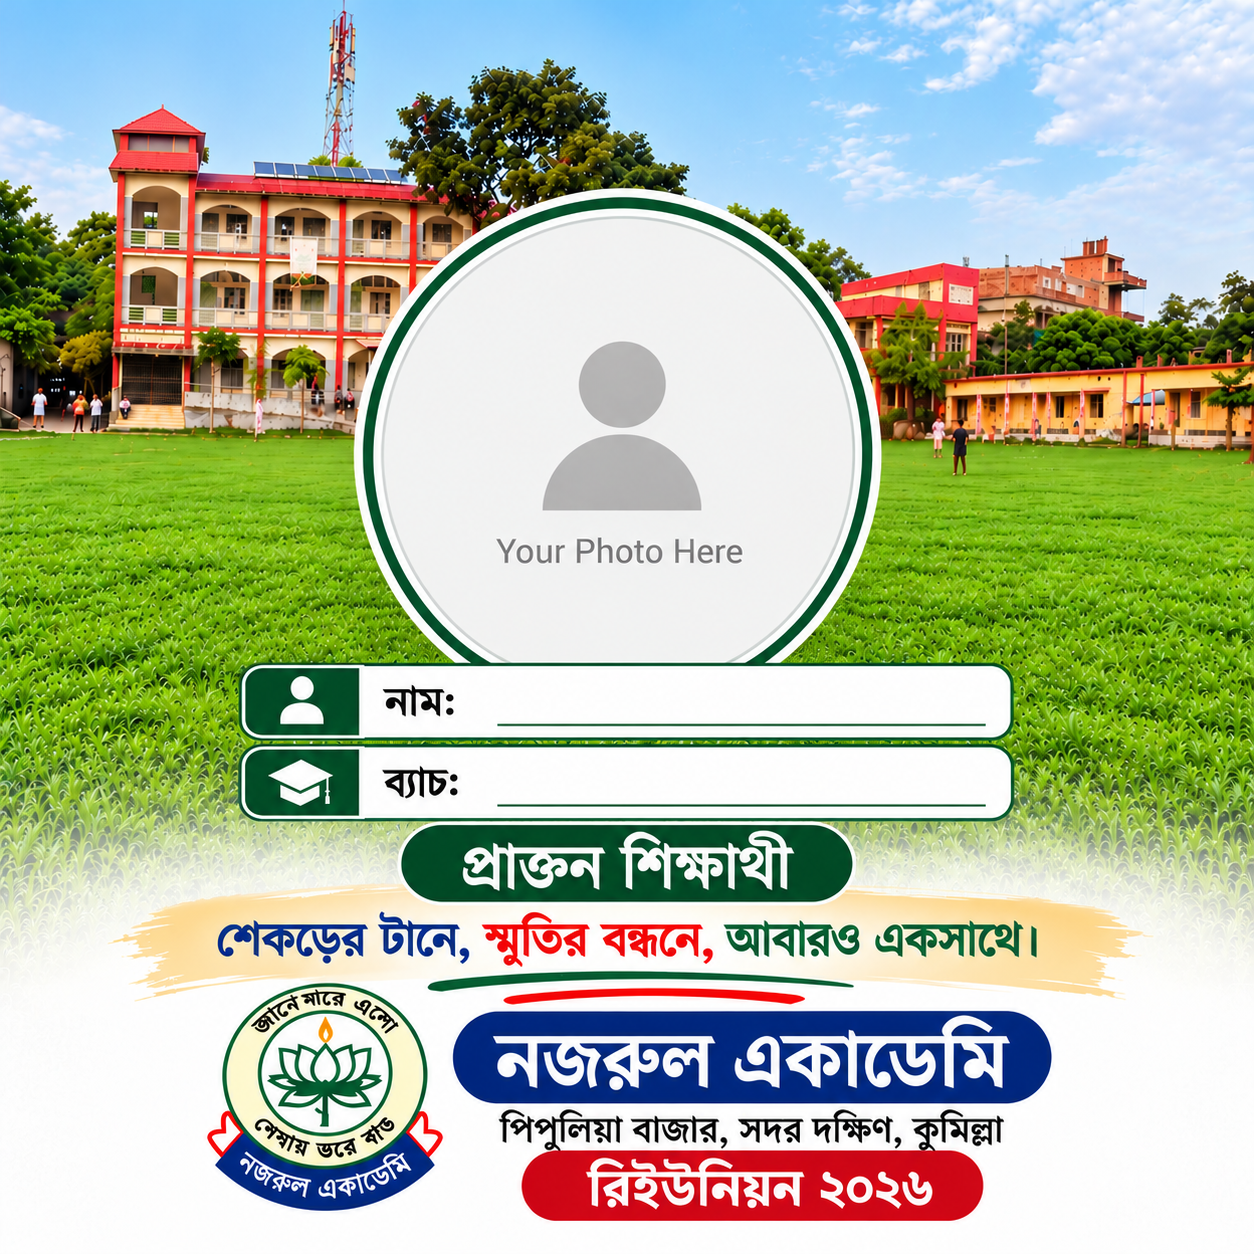
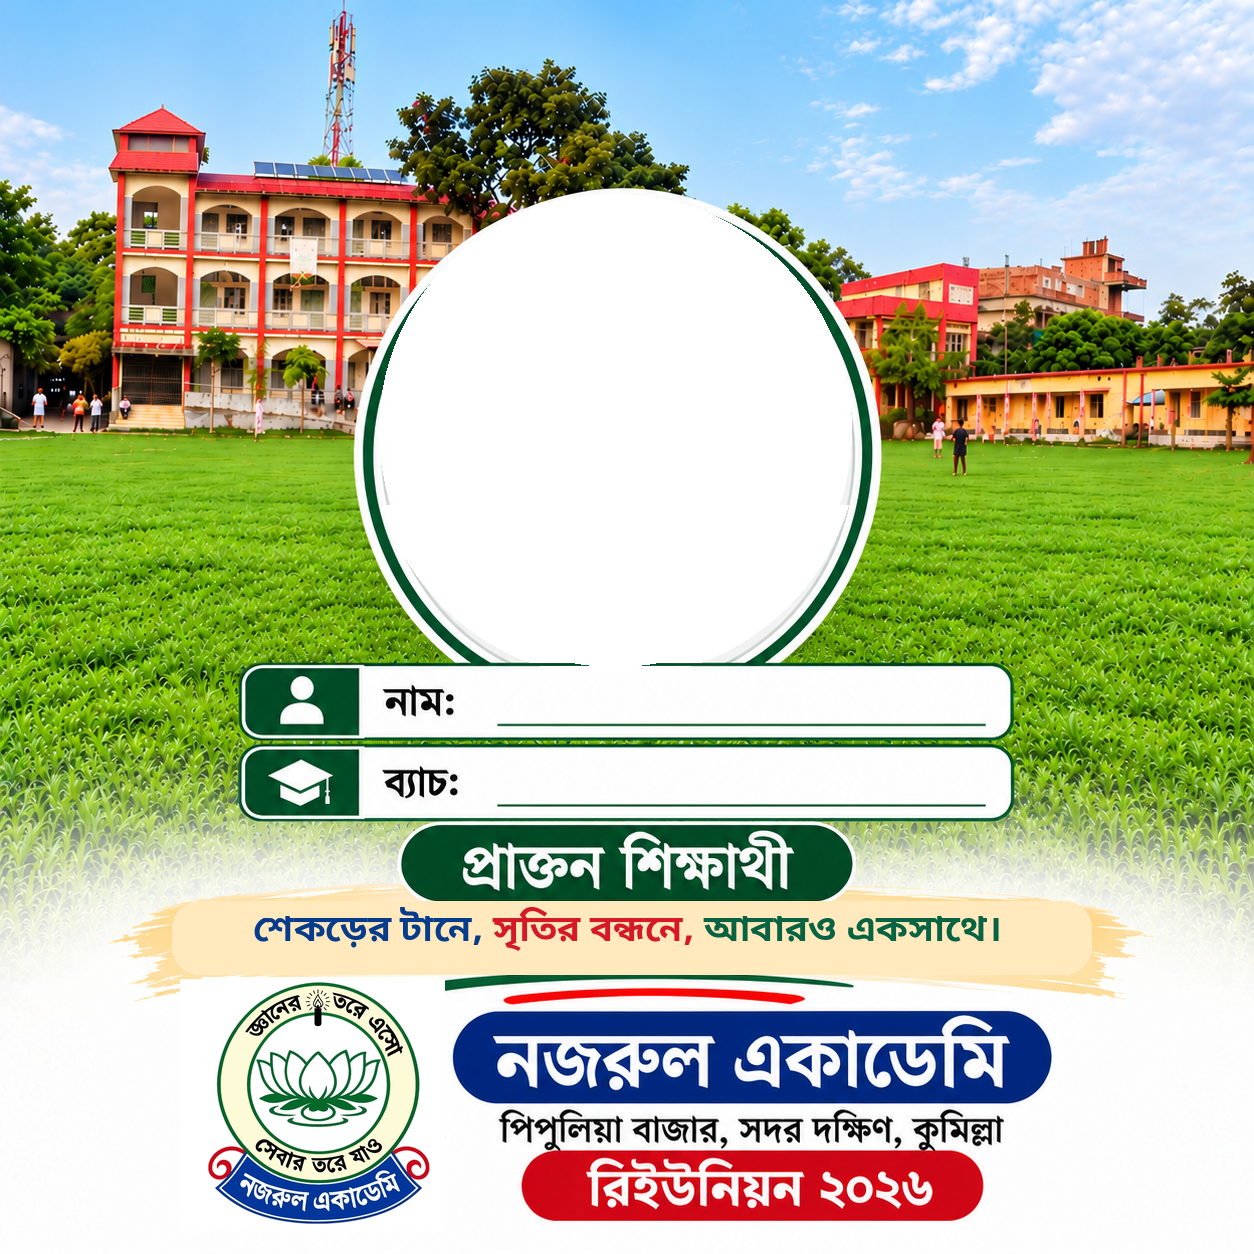
Add files via upload

diff --git a/index.html b/index.html
@@ -1,5 +1,18 @@
-<!doctype html><html lang="bn"><head><meta charset="utf-8"><meta name="viewport" content="width=device-width,initial-scale=1"><title>নজরুল একাডেমি রিইউনিয়ন ২০২৬</title><style>body{font-family:system-ui,sans-serif;background:#f1f6f4;margin:0;color:#153c2b}main{max-width:580px;margin:auto;padding:18px}h2{text-align:center;font-size:23px}.panel{background:white;border-radius:14px;padding:16px;box-shadow:0 4px 18px #0001}label{display:block;margin:12px 0 5px;font-weight:700}input{box-sizing:border-box;width:100%;padding:12px;border:1px solid #bbcfc3;border-radius:8px;font-size:17px}button{width:100%;background:#086239;color:white;border:0;border-radius:9px;padding:14px;margin-top:16px;font-size:18px;font-weight:700}canvas{display:block;width:100%;height:auto;margin:18px auto;border-radius:9px}.hint{font-size:13px;color:#52645b;text-align:center}</style></head><body><main><h2>নজরুল একাডেমি রিইউনিয়ন ২০২৬</h2><div class="panel"><label>নিজের ছবি নির্বাচন করুন</label><input id="photo" type="file" accept="image/*"><label>নাম</label><input id="name" placeholder="আপনার নাম লিখুন" maxlength="34"><label>ব্যাচ</label><input id="batch" placeholder="যেমন: ২০২০" maxlength="12"><canvas id="card" width="1254" height="1254"></canvas><button id="save">ফটো কার্ড ডাউনলোড করুন</button><p class="hint">আপনার ছবি শুধু আপনার ফোনেই প্রক্রিয়াকরণ হয়।</p></div></main><script>
-const c=document.getElementById('card'),ctx=c.getContext('2d'),photoInput=document.getElementById('photo'),nameInput=document.getElementById('name'),batchInput=document.getElementById('batch');let portrait=null;const bg=new Image();bg.src='frame.png';bg.onload=render;const beng=n=>String(n).replace(/[0-9]/g,x=>'০১২৩৪৫৬৭৮৯'[+x]);
-function render(){if(!bg.complete||!bg.naturalWidth)return;ctx.clearRect(0,0,1254,1254);ctx.drawImage(bg,0,0,1254,1254);if(portrait){ctx.save();ctx.beginPath();ctx.arc(615,435,222,0,Math.PI*2);ctx.clip();const scale=Math.max(444/portrait.width,444/portrait.height);const w=portrait.width*scale,h=portrait.height*scale;ctx.drawImage(portrait,615-w/2,435-h/2,w,h);ctx.restore();}function field(value,y){if(!value)return;ctx.fillStyle='#fff';ctx.fillRect(493,y-48,488,56);ctx.fillStyle='#111';let size=42;ctx.font='bold '+size+'px sans-serif';while(ctx.measureText(value).width>465&&size>23){size-=2;ctx.font='bold '+size+'px sans-serif';}ctx.fillText(value,504,y);}field(nameInput.value.trim(),722);field(beng(batchInput.value.trim()),804);}
-photoInput.addEventListener('change',()=>{const f=photoInput.files[0];if(!f)return;const url=URL.createObjectURL(f);const img=new Image();img.onload=()=>{portrait=img;URL.revokeObjectURL(url);render()};img.src=url});nameInput.addEventListener('input',render);batchInput.addEventListener('input',render);document.getElementById('save').addEventListener('click',()=>{render();const a=document.createElement('a');a.download='Nazrul-Academy-Reunion-2026.png';a.href=c.toDataURL('image/png');a.click()});
+<!doctype html>
+<html lang="bn">
+<head>
+<meta charset="UTF-8"><meta name="viewport" content="width=device-width, initial-scale=1, viewport-fit=cover">
+<meta name="theme-color" content="#071c4b"><meta name="description" content="নজরুল একাডেমি প্রাক্তন ছাত্র-ছাত্রী পুনর্মিলনী ২০২৬ ফটো ফ্রেম জেনারেটর">
+<title>নজরুল একাডেমি | পুনর্মিলনী ২০২৬ ফটো ফ্রেম</title>
+<link rel="preconnect" href="https://fonts.googleapis.com"><link rel="preconnect" href="https://fonts.gstatic.com" crossorigin>
+<link href="https://fonts.googleapis.com/css2?family=Hind+Siliguri:wght@400;500;600;700&display=swap" rel="stylesheet">
+<style>
+:root{--navy:#071c4b;--blue:#0d367d;--gold:#f2c965;--white:#fff;--muted:#60718d}*{box-sizing:border-box}body{margin:0;font-family:'Hind Siliguri',system-ui,sans-serif;background:radial-gradient(circle at 15% 0%,#234f9b,#071c4b 48%,#04112f);color:#fff;min-height:100vh}.wrap{max-width:1100px;margin:auto;padding:20px 16px 48px}header{text-align:center;margin:8px auto 25px}header .eyebrow{letter-spacing:.1em;color:var(--gold);font-size:13px;font-weight:700}h1{font-size:clamp(23px,4vw,38px);line-height:1.3;margin:9px 0 5px}header p{margin:0;color:#d8e3f9}main{display:grid;grid-template-columns:minmax(0,1.05fr) minmax(310px,.95fr);gap:24px;align-items:start}.panel{background:#fff;color:#12234a;border-radius:22px;padding:22px;box-shadow:0 18px 45px #0005}.panel h2{margin:0 0 14px;font-size:23px}.panel p{color:var(--muted);font-size:14px}.preview-panel{background:linear-gradient(160deg,#163d84,#07183f);border:1px solid #d9b96566;border-radius:22px;padding:18px;text-align:center;box-shadow:0 18px 45px #0004}.preview-panel h2{font-size:19px;margin:0 0 12px}.canvas-wrap{width:100%;max-width:500px;margin:auto;aspect-ratio:1;position:relative;touch-action:none;cursor:grab;border-radius:14px;overflow:hidden;background:repeating-conic-gradient(#e8ecf3 0% 25%,#cbd5e5 0% 50%) 50%/22px 22px}.canvas-wrap:active{cursor:grabbing}canvas{width:100%;height:100%;display:block}.hint{font-size:12px;color:#d6e3fa;margin:10px 0 0}.field{margin:15px 0}label{display:block;font-weight:700;margin-bottom:7px}input[type=text],select{width:100%;padding:12px 13px;font:inherit;border:1px solid #cbd5e1;border-radius:11px;background:#f8faff;color:#142957;outline:none}input:focus,select:focus{border-color:#1a5db2;box-shadow:0 0 0 3px #a5c7ff70}.upload{display:flex;align-items:center;justify-content:center;gap:10px;border:2px dashed #9cb5d7;background:#eff5ff;color:#0d367d;border-radius:13px;padding:19px 10px;cursor:pointer;font-weight:700;text-align:center}.upload input{position:absolute;width:1px;height:1px;opacity:0}.zoom-row{display:flex;align-items:center;gap:12px}.zoom-row input{flex:1;accent-color:#153e86}.zoom-row output{min-width:44px;text-align:right;font-weight:700}.actions{display:flex;gap:10px;flex-wrap:wrap;margin-top:18px}button{font:inherit;cursor:pointer;border:0;border-radius:12px;padding:12px 17px;font-weight:700}button.primary{background:linear-gradient(135deg,#fbe29b,#dca839);color:#10264f;flex:1}button.secondary{background:#e9f0fc;color:#143b7c}button:disabled{opacity:.5;cursor:not-allowed}.notice{margin-top:14px;background:#f3f7fd;border-radius:12px;padding:12px;font-size:13px;color:#4e6281}.status{min-height:22px;color:#1a6b3a;font-size:13px;font-weight:600}.privacy{font-size:13px;color:#c8d8f6;text-align:center;margin-top:22px}footer{text-align:center;color:#a9c0e7;font-size:12px;margin-top:20px}@media(max-width:780px){main{grid-template-columns:1fr}.preview-panel{order:1}.panel{order:2}.wrap{padding:14px 12px 35px}.panel{padding:18px}header{margin-bottom:16px}}
+</style>
+</head>
+<body><div class="wrap"><header><div class="eyebrow">NAZRUL ACADEMY • REUNION 2026</div><h1>নজরুল একাডেমি পুনর্মিলনী ২০২৬</h1><p>আপনার ছবি, আপনার ব্যাচ, আমাদের স্মৃতি</p></header>
+<main><section class="preview-panel" aria-label="ফটো ফ্রেম প্রিভিউ"><h2>আপনার ফটো ফ্রেম</h2><div class="canvas-wrap" id="gestureArea"><canvas id="preview" width="1254" height="1254" aria-label="ফটো ফ্রেমের প্রিভিউ"></canvas></div><div class="hint">ছবি টেনে সরান • দুই আঙুলে বা স্লাইডারে জুম করুন</div></section>
+<section class="panel"><h2>নিজের ফ্রেম তৈরি করুন</h2><label class="upload">📷 ছবি নির্বাচন করুন<input id="photo" type="file" accept="image/*"></label><div class="field"><label for="name">আপনার নাম</label><input id="name" type="text" maxlength="45" placeholder="যেমন: মোহাম্মদ রহিম"></div><div class="field"><label for="batch">এসএসসি পাসের সাল</label><select id="batch"><option value="">সাল নির্বাচন করুন</option></select></div><div class="field"><label for="zoom">ছবি জুম</label><div class="zoom-row"><input id="zoom" type="range" min="1" max="3" step="0.01" value="1"><output id="zoomValue">100%</output></div></div><div class="actions"><button class="secondary" id="reset" type="button">↺ ছবি রিসেট</button><button class="primary" id="download" type="button">⬇ HD PNG ডাউনলোড</button></div><div id="status" class="status" role="status" aria-live="polite"></div><div class="notice">ফ্রেমটি ১২৫৪ × ১২৫৪ পিক্সেলে PNG হিসেবে সেভ হবে। ছবি আপনার ডিভাইসেই প্রসেস হয়—কোনো সার্ভারে পাঠানো হয় না।</div></section></main><p class="privacy">শেকড়ের টানে, সৃতির বন্ধনে, আবারও একসাথে।</p><footer>© নজরুল একাডেমি পুনর্মিলনী ২০২৬</footer></div>
+<script>
+(()=>{'use strict';const S=1254,canvas=document.getElementById('preview'),ctx=canvas.getContext('2d'),frame=new Image(),photoInput=document.getElementById('photo'),nameInput=document.getElementById('name'),batchInput=document.getElementById('batch'),zoomInput=document.getElementById('zoom'),zoomValue=document.getElementById('zoomValue'),status=document.getElementById('status'),area=document.getElementById('gestureArea');let pic=null,frameReady=false,zoom=1,dx=0,dy=0,photoURL=null;const circle={x:615,y:434,r:247};for(let y=2026;y>=1970;y--){let opt=document.createElement('option');opt.value=String(y);opt.textContent=String(y);batchInput.append(opt)}function msg(s){status.textContent=s}function roundedRect(x,y,w,h,r){ctx.beginPath();ctx.roundRect(x,y,w,h,r)}function textPill(text,y,size,fg,bg){ctx.save();ctx.font=`700 ${size}px 'Hind Siliguri',sans-serif`;ctx.textAlign='center';ctx.textBaseline='middle';let maxW=680;while(ctx.measureText(text).width>maxW&&size>25){size-=2;ctx.font=`700 ${size}px 'Hind Siliguri',sans-serif`}const w=Math.min(maxW,ctx.measureText(text).width+60),h=size+26;ctx.fillStyle=bg;roundedRect((S-w)/2,y-h/2,w,h,24);ctx.fill();ctx.fillStyle=fg;ctx.fillText(text,S/2,y);ctx.restore()}function draw(){ctx.clearRect(0,0,S,S);if(pic){ctx.save();ctx.beginPath();ctx.arc(circle.x,circle.y,circle.r,0,Math.PI*2);ctx.clip();const base=Math.max(circle.r*2/pic.width,circle.r*2/pic.height)*zoom,w=pic.width*base,h=pic.height*base;ctx.drawImage(pic,circle.x-w/2+dx,circle.y-h/2+dy,w,h);ctx.restore()}else{ctx.save();ctx.beginPath();ctx.arc(circle.x,circle.y,circle.r,0,Math.PI*2);ctx.fillStyle='#e8ecef';ctx.fill();ctx.fillStyle='#76858a';ctx.textAlign='center';ctx.font='700 30px Hind Siliguri, sans-serif';ctx.fillText('এখানে ছবি দিন',circle.x,circle.y);ctx.restore()}if(frameReady)ctx.drawImage(frame,0,0,S,S);ctx.save();ctx.fillStyle='#103c2a';ctx.textAlign='left';ctx.textBaseline='middle';const name=nameInput.value.trim(),batch=batchInput.value;if(name){let sz=43;do{ctx.font=`700 ${sz}px Hind Siliguri, sans-serif`;if(ctx.measureText(name).width<=470)break;sz-=2}while(sz>20);ctx.fillText(name,500,700)}if(batch){ctx.font='700 43px Hind Siliguri, sans-serif';ctx.fillText(batch.replace(/[0-9]/g,n=>'০১২৩৪৫৬৭৮৯'[Number(n)]),500,782)}ctx.restore()}function resetPosition(){zoom=1;dx=0;dy=0;zoomInput.value='1';zoomValue.textContent='100%';draw()}frame.onload=()=>{frameReady=true;draw()};frame.onerror=()=>msg('ফ্রেম লোড হয়নি। index.html এবং frame.png একই ফোল্ডারে রাখুন।');frame.src='frame.png';document.fonts.ready.then(draw);draw();photoInput.addEventListener('change',()=>{const file=photoInput.files?.[0];if(!file)return;if(!file.type.startsWith('image/')){msg('শুধু ছবির ফাইল নির্বাচন করুন।');return}if(file.size>25*1024*1024){msg('২৫ MB-এর কম আকারের ছবি নির্বাচন করুন।');return}const url=URL.createObjectURL(file),im=new Image();im.onload=()=>{if(photoURL)URL.revokeObjectURL(photoURL);photoURL=url;pic=im;resetPosition();msg('ছবি যুক্ত হয়েছে। এখন ছবি সরিয়ে ঠিক করুন।')};im.onerror=()=>{URL.revokeObjectURL(url);msg('ছবি খোলা যায়নি। অন্য ছবি চেষ্টা করুন।')};im.src=url});nameInput.addEventListener('input',draw);batchInput.addEventListener('change',draw);zoomInput.addEventListener('input',()=>{zoom=Number(zoomInput.value);zoomValue.textContent=Math.round(zoom*100)+'%';draw()});document.getElementById('reset').addEventListener('click',resetPosition);document.getElementById('download').addEventListener('click',()=>{if(!pic){msg('প্রথমে আপনার ছবি নির্বাচন করুন।');return}if(!batchInput.value){msg('এসএসসি পাসের সাল নির্বাচন করুন।');batchInput.focus();return}if(!frameReady){msg('ফ্রেম এখনও লোড হচ্ছে।');return}draw();canvas.toBlob(blob=>{if(!blob){msg('ডাউনলোড তৈরি করা যায়নি।');return}const url=URL.createObjectURL(blob),a=document.createElement('a');a.href=url;a.download=`Nazrul-Academy-Reunion-2026-SSC-${batchInput.value}.png`;document.body.append(a);a.click();a.remove();setTimeout(()=>URL.revokeObjectURL(url),15000);msg('PNG তৈরি হয়েছে। ডাউনলোড ফোল্ডার দেখুন।')},'image/png')});const points=new Map();let dragStart=null,pinchStart=null;function distance(a,b){return Math.hypot(a.x-b.x,a.y-b.y)}area.addEventListener('pointerdown',e=>{if(!pic)return;area.setPointerCapture(e.pointerId);points.set(e.pointerId,{x:e.clientX,y:e.clientY});if(points.size===1)dragStart={x:e.clientX,y:e.clientY,dx,dy};else if(points.size===2){const p=[...points.values()];pinchStart={distance:distance(p[0],p[1]),zoom};dragStart=null}});area.addEventListener('pointermove',e=>{if(!points.has(e.pointerId)||!pic)return;points.set(e.pointerId,{x:e.clientX,y:e.clientY});if(points.size===2&&pinchStart){const p=[...points.values()];zoom=Math.max(1,Math.min(3,pinchStart.zoom*distance(p[0],p[1])/Math.max(1,pinchStart.distance)));zoomInput.value=zoom;zoomValue.textContent=Math.round(zoom*100)+'%'}else if(points.size===1&&dragStart){const ratio=S/area.getBoundingClientRect().width;dx=dragStart.dx+(e.clientX-dragStart.x)*ratio;dy=dragStart.dy+(e.clientY-dragStart.y)*ratio}draw()});function end(e){points.delete(e.pointerId);dragStart=null;pinchStart=null;if(points.size===1){const p=[...points.values()][0];dragStart={x:p.x,y:p.y,dx,dy}}}area.addEventListener('pointerup',end);area.addEventListener('pointercancel',end);area.addEventListener('wheel',e=>{if(!pic)return;e.preventDefault();zoom=Math.max(1,Math.min(3,zoom+(e.deltaY<0?.07:-.07)));zoomInput.value=zoom;zoomValue.textContent=Math.round(zoom*100)+'%';draw()},{passive:false});})();
 </script></body></html>
